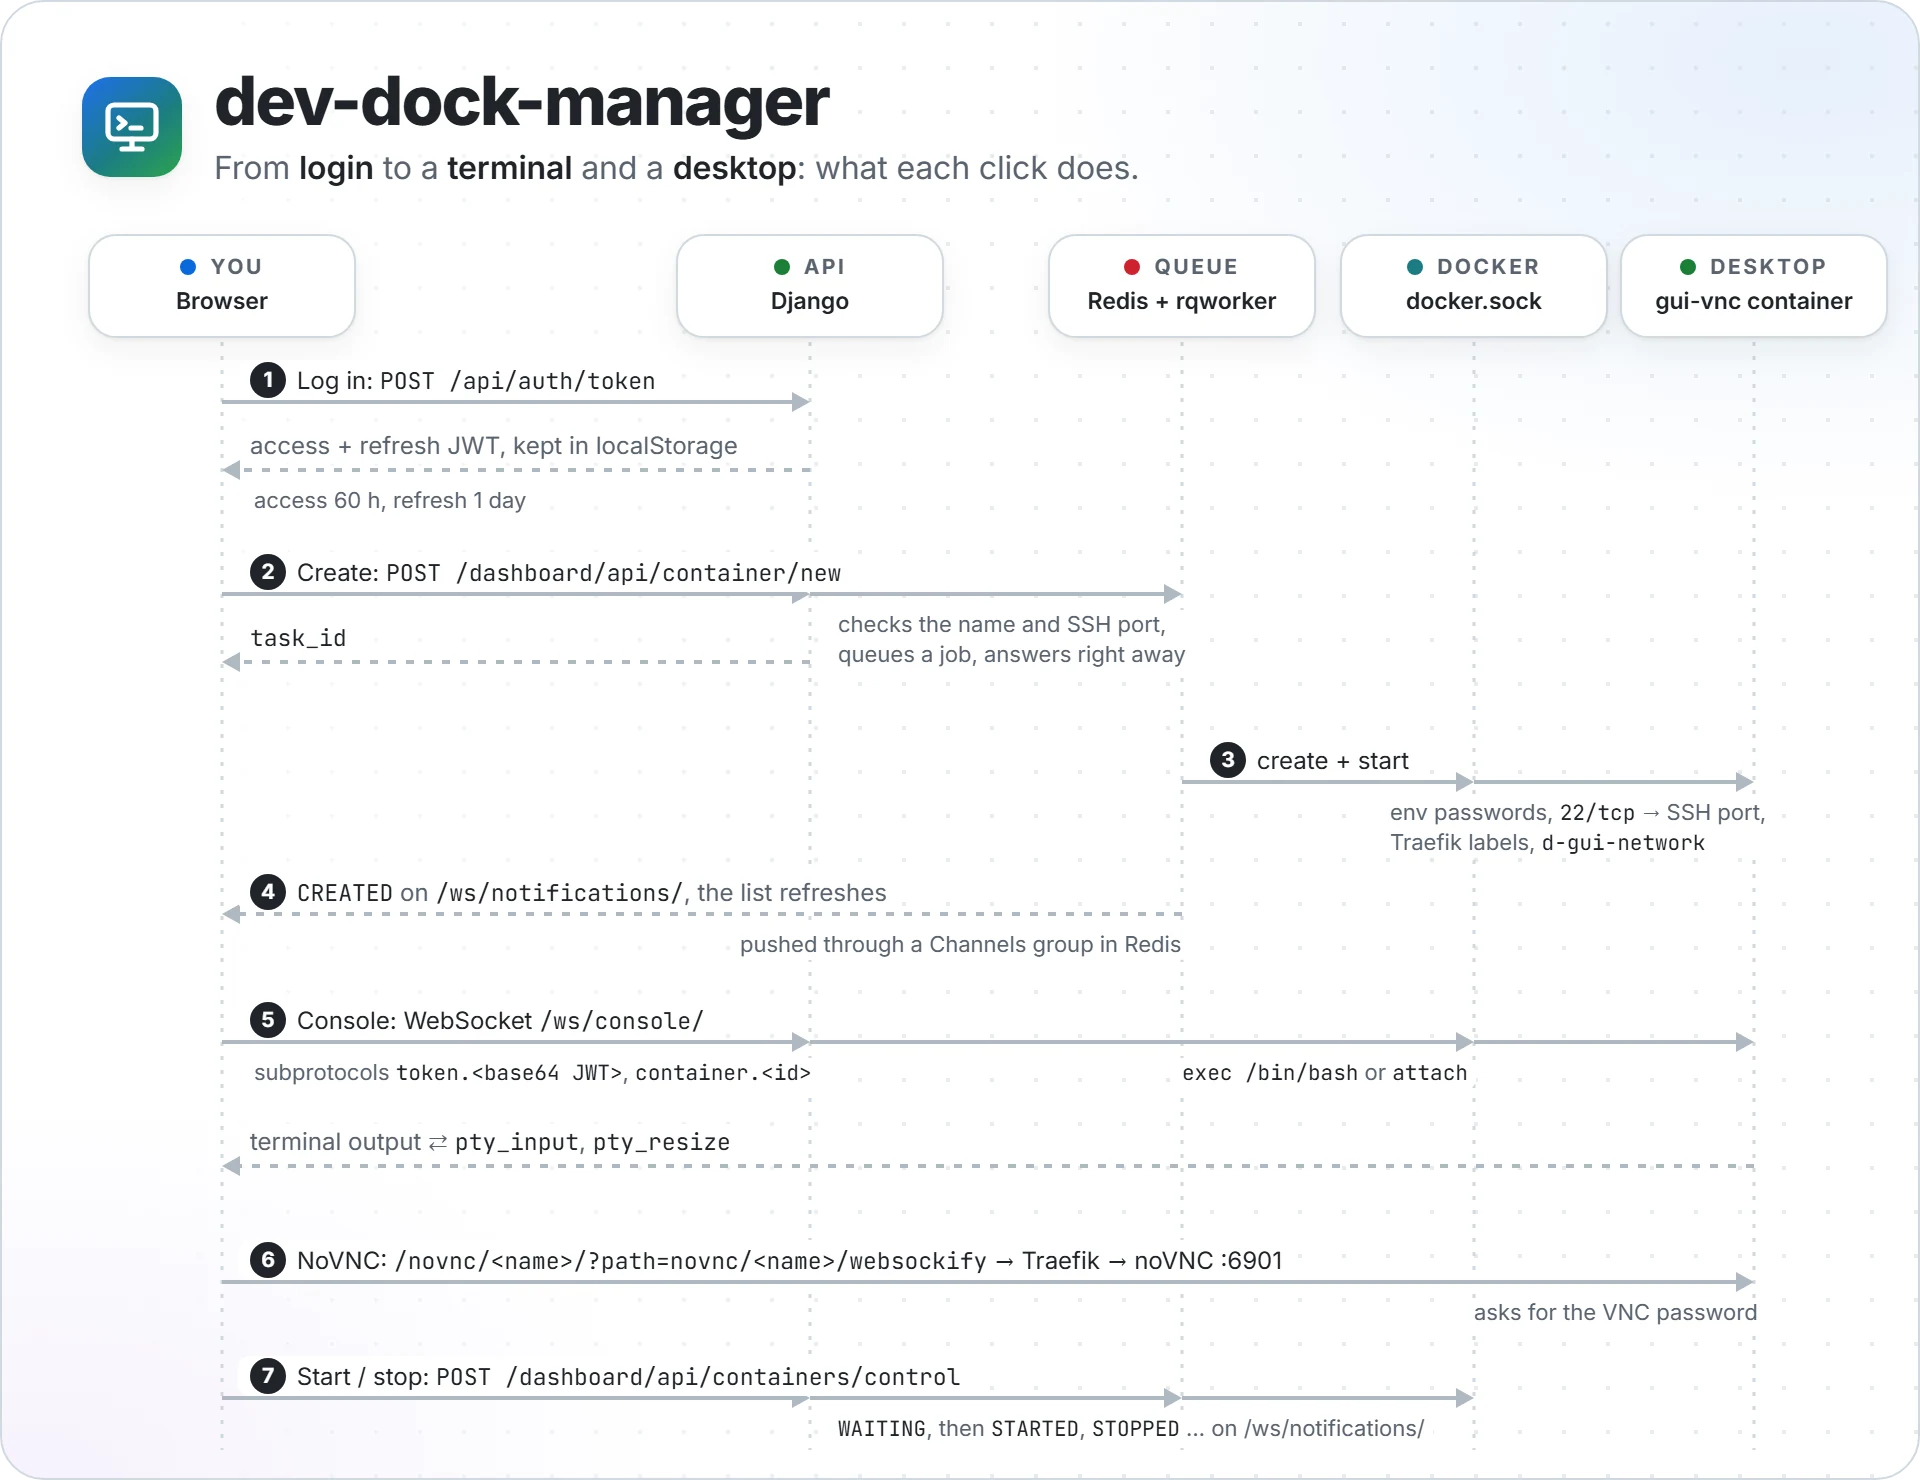
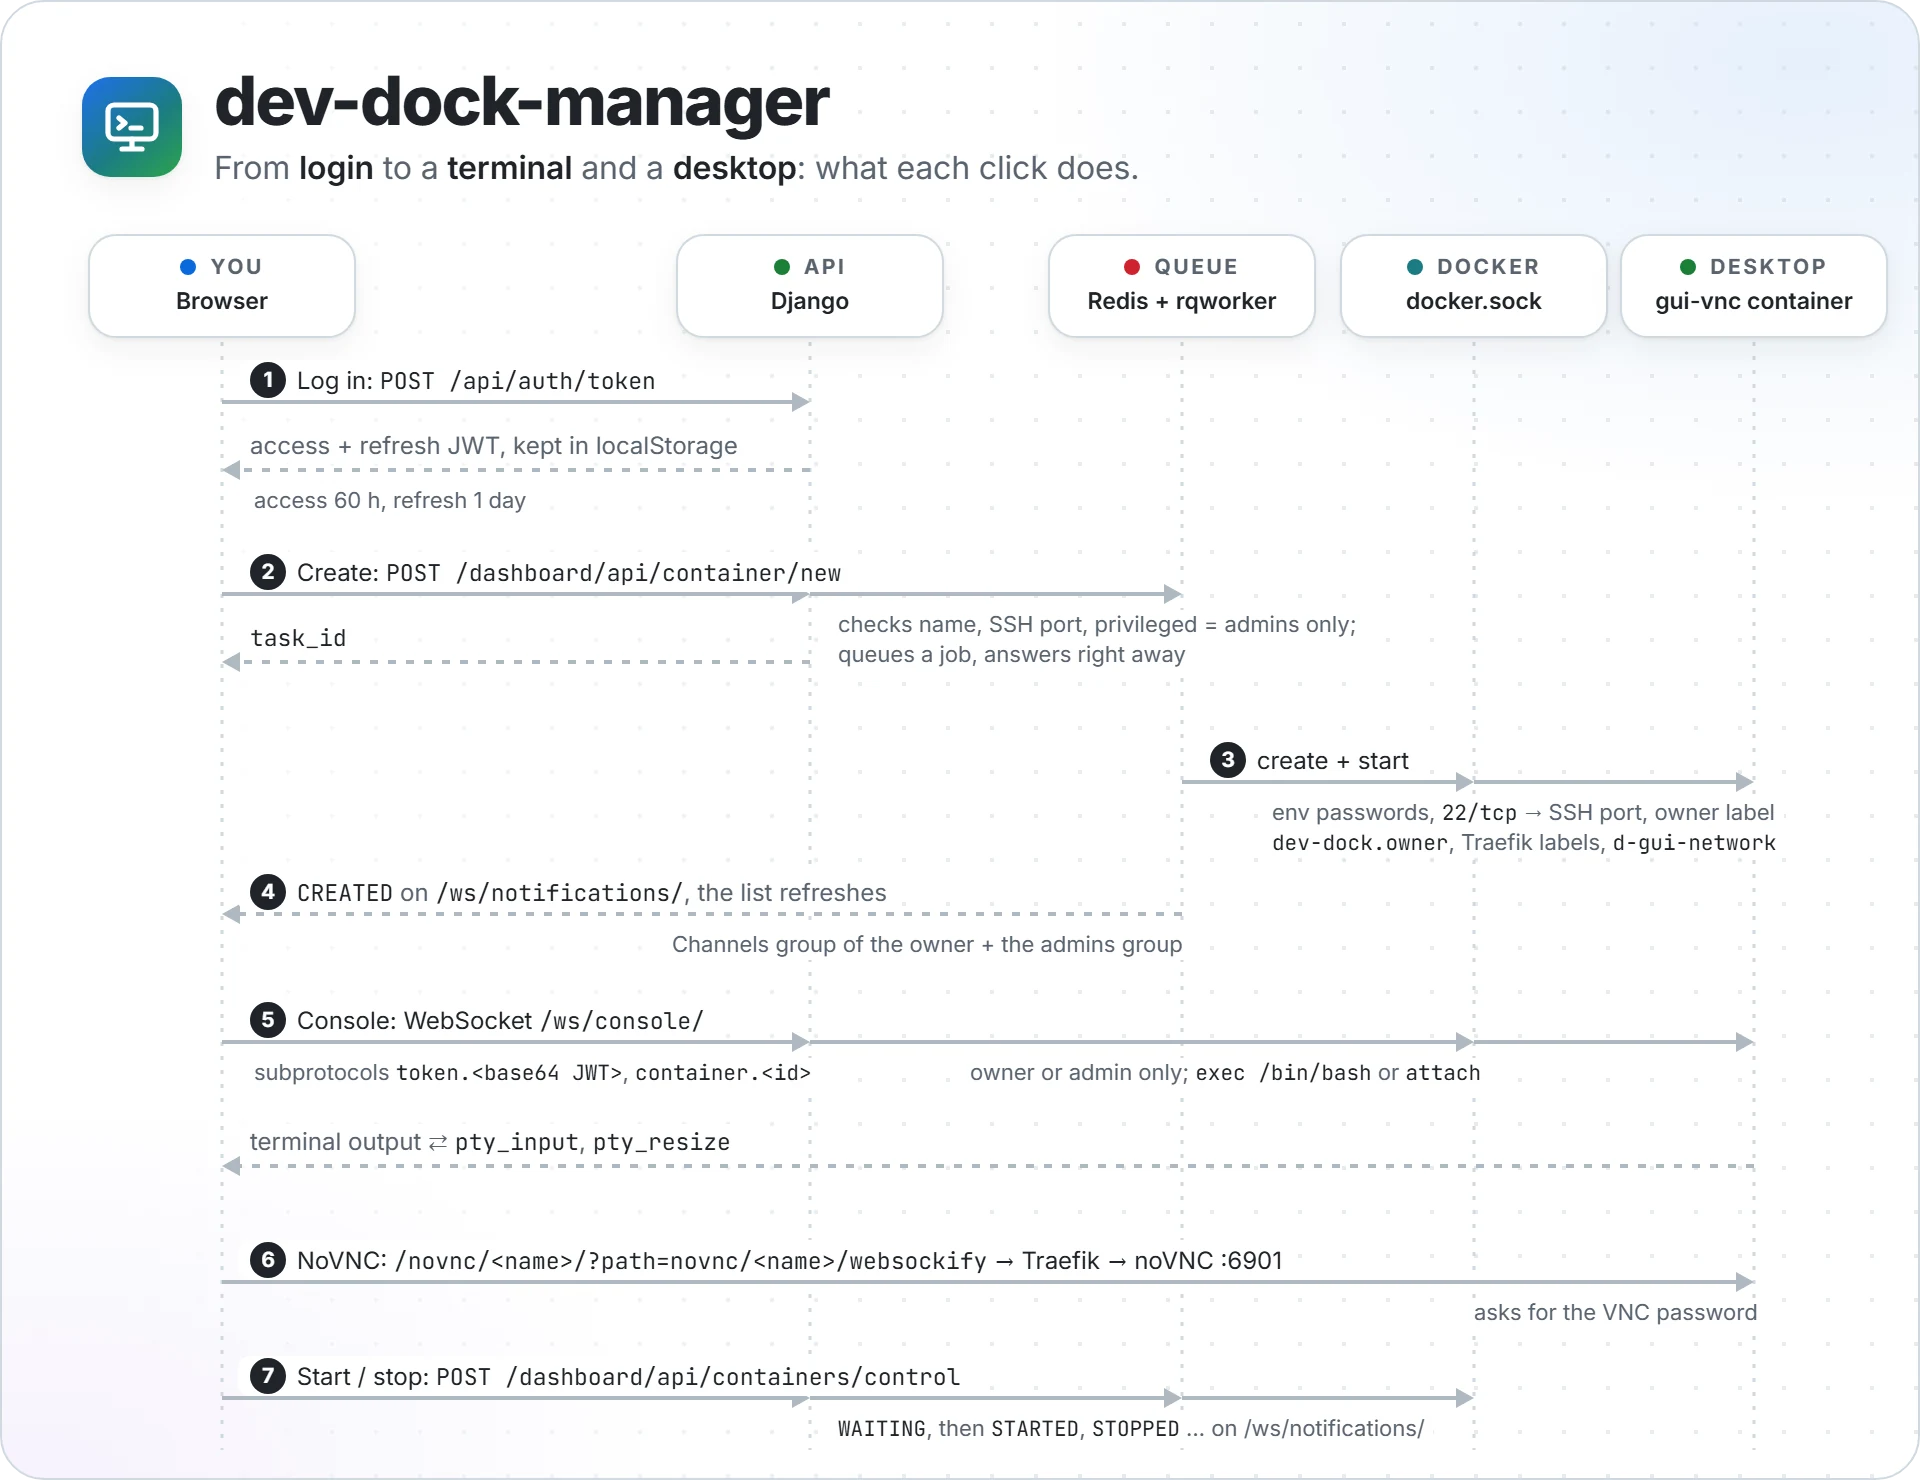
docs: point new installs to the Rust manager, show the measurements
The user decided dev-dock-manager-rust is the recommended manager and
this one stays documented as the older alternative. The README now says
so up front, shows the same side-by-side measurements (linking to the
method in the Rust README) and explains where the time goes here
(docker-py inspects every image; the container list asks Docker for disk
usage; start-up runs migrate, collectstatic and runserver).

Diagrams updated the same way as in the Rust repo: family overview with
the recommendation, owner label, admin-only privileged check, owner or
admin console access, notifications only to the owner and admins.

diff --git a/docs/images/src/manager-lifecycle.html b/docs/images/src/manager-lifecycle.html
@@ -66,14 +66,14 @@
       api: ['API', 'c-green', 'Django'], worker: ['Queue', 'c-red', 'Redis + rqworker'],
       tokens: 'access 60 h, refresh 1 day',
       ws: 'subprotocols <code>token.&lt;base64 JWT&gt;</code>, <code>container.&lt;id&gt;</code>',
-      notify: 'pushed through a Channels group in Redis',
+      notify: 'Channels group of the owner + the admins group',
     },
     rust: {
       name: 'dev-dock-manager-rust',
       api: ['API', 'c-orange', 'Rust'], worker: ['Queue', 'c-red', 'Redis + worker task'],
       tokens: 'access 1 h, refresh 1 day',
       ws: '<code>?container=&lt;id&gt;</code>, JWT in the first message',
-      notify: 'pushed through an in-process broadcast',
+      notify: 'in-process broadcast, filtered to the owner + admins',
     },
   }[V];
   document.getElementById('name').textContent = T.name;
@@ -106,11 +106,11 @@
   ];
   const notes = [
     [X.B + 12, 242, T.tokens, 'start'],
-    [X.A + 10, 304, 'checks the name and SSH port,<br>queues a job, answers right away', 'start'],
-    [X.C - 6, 398, 'env passwords, <code>22/tcp</code> → SSH port,<br>Traefik labels, <code>d-gui-network</code>', 'end'],
+    [X.A + 10, 304, 'checks name, SSH port, privileged = admins only;<br>queues a job, answers right away', 'start'],
+    [X.C - 6, 398, 'env passwords, <code>22/tcp</code> → SSH port, owner label<br><code>dev-dock.owner</code>, Traefik labels, <code>d-gui-network</code>', 'end'],
     [X.W - 10, 464, T.notify, 'end'],
     [X.B + 12, 528, T.ws, 'start'],
-    [X.D - 10, 528, '<code>exec /bin/bash</code> or <code>attach</code>', 'end'],
+    [X.D - 10, 528, 'owner or admin only; <code>exec /bin/bash</code> or <code>attach</code>', 'end'],
     [X.C - 6, 648, 'asks for the VNC password', 'end'],
     [X.A + 10, 706, '<code>WAITING</code>, then <code>STARTED</code>, <code>STOPPED</code> … on /ws/notifications/', 'start'],
   ];

diff --git a/docs/images/src/family.html b/docs/images/src/family.html
@@ -86,19 +86,19 @@
   </div>
 
   <div class="node repo" id="django">
-    <div class="label c-green"><i></i>Manager <span class="type">Python</span></div>
+    <div class="label c-green"><i></i>Older manager <span class="type">Python</span></div>
     <div class="title">dev-dock-manager</div>
     <div class="sub">Django REST + Channels API, RQ worker, Redis, SQLite.</div>
     <div class="chips"><span class="chip">Traefik :8000</span><span class="chip">Next.js</span></div>
-    <div class="sub">Login, create, web terminal, NoVNC</div>
+    <div class="sub">Same dashboard, more moving parts</div>
   </div>
 
   <div class="node repo" id="rust">
-    <div class="label c-orange"><i></i>Manager <span class="type">Rust</span></div>
+    <div class="label c-orange"><i></i>Recommended <span class="type">Rust</span></div>
     <div class="title">dev-dock-manager-rust</div>
     <div class="sub">The same manager with a Rust API (axum + bollard), Redis, SQLite.</div>
     <div class="chips"><span class="chip">Traefik :8000</span><span class="chip">Next.js</span></div>
-    <div class="sub">Same dashboard, same routes</div>
+    <div class="sub">Login, own desktops, terminal, NoVNC</div>
   </div>
 
   <div class="node ghost" id="host">

diff --git a/docs/images/src/manager-architecture.html b/docs/images/src/manager-architecture.html
@@ -117,7 +117,7 @@
   <div class="node" id="desktops">
     <div class="label c-green"><i></i>Desktops <span class="type">gui-vnc</span></div>
     <div class="title sm">One container per name</div>
-    <div class="sub">noVNC on <b>:6901</b> behind Traefik, VNC on :5901 inside, SSH <b>:22</b> → the host port you picked</div>
+    <div class="sub">noVNC <b>:6901</b> via Traefik, SSH <b>:22</b> on a host port, owner label <code>dev-dock.owner</code></div>
   </div>
 
   <div class="node sm" id="redis">

diff --git a/README.md b/README.md
@@ -16,6 +16,10 @@ Xfce desktop in the browser (NoVNC), a web terminal and an SSH port, without tou
 API is Django (with Django REST framework and Channels for WebSockets), the dashboard is Next.js, and Traefik
 sits in front of both.
 
+> **Starting fresh? Use [dev-dock-manager-rust](https://github.com/NatLee/dev-dock-manager-rust).** It's the
+> same dashboard, permissions and account pages with a much lighter backend (numbers below). This Django
+> version stays maintained as the older alternative, for example if you want the Django admin or Python.
+
 It grew out of [dev-dock](https://github.com/NatLee/dev-dock) and
 [Django Docker GUI](https://github.com/NatLee/django-docker-gui) (a web UI for Docker with a terminal).
 
@@ -31,11 +35,25 @@ It grew out of [dev-dock](https://github.com/NatLee/dev-dock) and
 | Repo | What it is |
 |---|---|
 | [dev-dock](https://github.com/NatLee/dev-dock) | The `gui-vnc` image: Xfce desktop, VNC, noVNC and SSH in one container. Included here as `gui/`. |
-| **dev-dock-manager** (this repo) | The manager with a Django (Python) API. |
-| [dev-dock-manager-rust](https://github.com/NatLee/dev-dock-manager-rust) | The same dashboard, routes and container setup, with the API rewritten in Rust. |
+| [dev-dock-manager-rust](https://github.com/NatLee/dev-dock-manager-rust) | **The recommended manager.** The same dashboard with a Rust API. |
+| **dev-dock-manager** (this repo) | The older version, with a Django (Python) API. |
 
-The two managers look the same from the browser and start the same containers, so pick one per machine.
-What differs is the backend:
+The two managers look the same from the browser, enforce the same permissions and start the same
+containers, so pick one per machine. Measured side by side on the same machine (medians; how it was measured
+is in the [Rust README](https://github.com/NatLee/dev-dock-manager-rust#why-this-one)):
+
+| Measured (median) | dev-dock-manager (this repo) | dev-dock-manager-rust |
+|---|---|---|
+| Backend image size | 687 MB | 144 MB |
+| Backend memory when idle | 256 MiB | 5.0 MiB |
+| Start-up (`docker start` → API answers) | 8.3 s | 0.58 s |
+| Log in | 129 ms | 18 ms |
+| Container list | 3,185 ms | 478 ms |
+| Image list | 4,973 ms | 324 ms |
+
+The slow list endpoints come from docker-py: it inspects every image one by one, and the container list
+also asks Docker for disk usage. Start-up includes applying migrations, collecting static files and
+`runserver` with its auto-reloader.
 
 | | dev-dock-manager | dev-dock-manager-rust |
 |---|---|---|
@@ -82,12 +100,13 @@ What each click does:
 1. **Log in.** The dashboard posts your username and password to `/api/auth/token` and keeps the access and
    refresh tokens (JWT) in the browser's localStorage. Every API call sends the access token.
 2. **Create.** The API checks the name (two characters or more, starting with a letter) and that the SSH port
-   is free, puts an RQ job on Redis and answers with a `task_id` right away.
+   is free, puts an RQ job on Redis and answers with a `task_id` right away. Only admins may tick "privileged".
 3. **`rqworker` starts the container** from `gui-vnc`: your passwords as environment variables, port 22 on the
    SSH port you picked, `/etc/localtime` mounted read-only, the Traefik labels for `/novnc/<name>/`, and
-   optionally privileged mode or all NVIDIA GPUs.
-4. **The list refreshes** when `CREATED` arrives on the `/ws/notifications/` WebSocket.
-5. **Console** opens a WebSocket to `/ws/console/` with two subprotocols, `token.<base64 JWT>` and
+   optionally privileged mode or all NVIDIA GPUs, plus the `dev-dock.owner` label with your user id.
+4. **The list refreshes** when `CREATED` arrives on the `/ws/notifications/` WebSocket. Notifications only go
+   to the desktop's owner and to admins.
+5. **Console** (your own desktops only; admins: any) opens a WebSocket to `/ws/console/` with two subprotocols, `token.<base64 JWT>` and
    `container.<id>`, and gets a `bash` started with `docker exec` (a root shell). **Attach** connects to the
    container's main process instead. Keys and window size go up as `pty_input` and `pty_resize`.
 6. **NoVNC** opens `/novnc/<name>/` through Traefik and asks for the VNC password you set when creating it.
